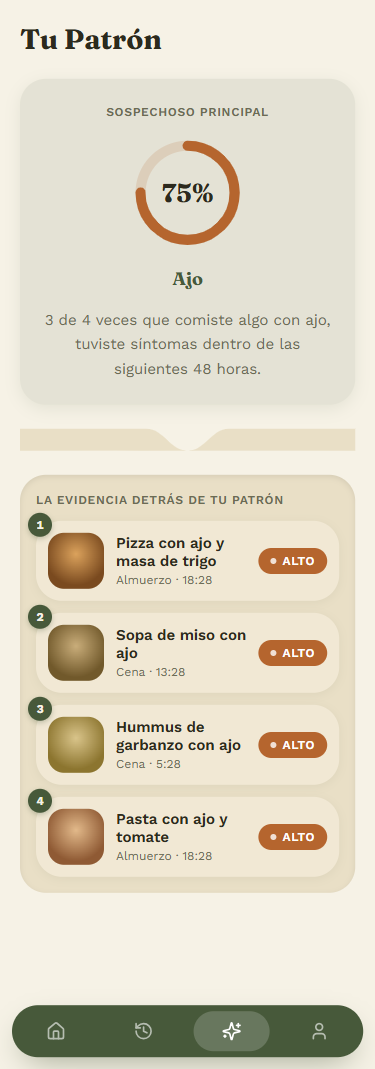
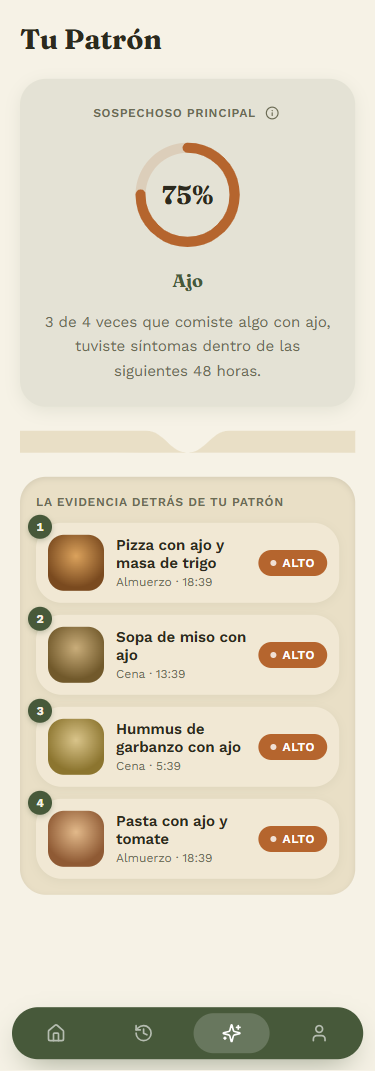
Agregar ayuda contextual sobre confianza/ALTO en Tu Patron (33/40 -> pendiente)
Boton icono Info junto a "Sospechoso principal" que expande una linea
explicando que significan "confianza" y "ALTO", corrigiendo el defecto
de mayor peso de la 5ta revision (heuristica de ayuda/documentacion).
Los defectos restantes (badges identicos, sin atajos, sin manejo de
error para un escenario que no puede ocurrir) se dejan sin tocar para
no fabricar datos falsos ni sobre-ingenierizar.

diff --git a/app/(app)/patron/page.tsx b/app/(app)/patron/page.tsx
@@ -6,8 +6,8 @@
 
 import { useEffect, useState } from 'react';
 import { useRouter } from 'next/navigation';
-import { motion, useReducedMotion } from 'motion/react';
-import { Sparkles } from 'lucide-react';
+import { motion, useReducedMotion, AnimatePresence } from 'motion/react';
+import { Info, Sparkles } from 'lucide-react';
 import { MordiscoAncho } from '@/components/app/mordisco-ancho';
 import {
   asegurarSemilla,
@@ -40,6 +40,7 @@ export default function PatronPage() {
   const [comidas, setComidas] = useState<Comida[] | null>(null);
   const [correlacion, setCorrelacion] = useState<Correlacion | null | undefined>(undefined);
   const [detalle, setDetalle] = useState<Comida | null>(null);
+  const [mostrarAyuda, setMostrarAyuda] = useState(false);
   const reduce = useReducedMotion();
   const router = useRouter();
 
@@ -82,7 +83,31 @@ export default function PatronPage() {
             transition={{ duration: 0.3 }}
             className="flex flex-col items-center gap-4 rounded-[var(--radius-card)] bg-[var(--chip-bg)] p-6 text-center shadow-[0_4px_16px_color-mix(in_oklab,var(--accent)_10%,transparent)]"
           >
-            <p className="text-[12px] font-semibold uppercase tracking-[0.06em] text-[var(--text-tertiary)]">Sospechoso principal</p>
+            <div className="flex items-center gap-1.5">
+              <p className="text-[12px] font-semibold uppercase tracking-[0.06em] text-[var(--text-tertiary)]">Sospechoso principal</p>
+              <button
+                type="button"
+                onClick={() => setMostrarAyuda((v) => !v)}
+                aria-expanded={mostrarAyuda}
+                aria-label="¿Qué significa esto?"
+                className="flex size-5 items-center justify-center rounded-full text-[var(--text-tertiary)] focus-visible:outline-none focus-visible:ring-2 focus-visible:ring-[var(--accent)]"
+              >
+                <Info size={14} aria-hidden="true" />
+              </button>
+            </div>
+            <AnimatePresence>
+              {mostrarAyuda && (
+                <motion.p
+                  initial={{ opacity: 0, height: 0 }}
+                  animate={{ opacity: 1, height: 'auto' }}
+                  exit={{ opacity: 0, height: 0 }}
+                  transition={{ duration: reduce ? 0 : 0.2 }}
+                  className="max-w-[34ch] text-[13px] leading-snug text-[var(--text-secondary)]"
+                >
+                  "Confianza" es cuántas veces síntomas y este ingrediente coincidieron dentro de 48 horas. "Alto" es un ingrediente ya conocido como fuerte en FODMAP.
+                </motion.p>
+              )}
+            </AnimatePresence>
             <div aria-hidden="true" className="relative flex size-28 items-center justify-center">
               <svg viewBox="0 0 100 100" className="absolute inset-0 -rotate-90">
                 <circle cx="50" cy="50" r="42" fill="none" stroke="color-mix(in oklab, var(--alerta) 16%, transparent)" strokeWidth="9" />

diff --git a/docs/revisiones/patron-veredicto.md b/docs/revisiones/patron-veredicto.md
@@ -1,22 +1,53 @@
 # VEREDICTO revisor-visual — Tu Patrón
 Fecha: 2026-09-26 00:00
 Screenshot: docs/revisiones/patron-375.png
-Usabilidad: 35/40
+Usabilidad: 33/40
 Craft: 19/20
 Copy (si vende): N-A
 Fidelidad (si hubo referencia): FIEL
 Veredicto: NO LISTA
 Top defectos:
-1. [Sheet de detalle, tras eliminar] Hay confirmación visual (check + "Registro eliminado" con aria-live) pero NO hay "deshacer" — la eliminación es irreversible en el instante del tap en "Sí, eliminar" (el segundo paso solo confirma la intención, no ofrece revertir el resultado). → Agregar un breve "Deshacer" de 4-5s antes de que la eliminación sea definitiva, o mantener el registro recuperable un rato (heurística 3).
-2. [Sección "La evidencia detrás de tu patrón", las 4 tarjetas] Los 4 badges siguen mostrando el mismo texto "ALTO" sin ninguna variación cromática/de intensidad entre ellos — sigue leyéndose repetitivo (el número de orden 1-4 ayuda a escanear pero no reemplaza la jerarquía de fuerza). → Si hay grados reales dentro de "ALTO", diferenciar con variante tonal; si las 4 son objetivamente idénticas, no bloqueante (como en pasadas anteriores).
-3. [Pantalla completa] No hay ningún tooltip/ícono de ayuda que explique qué significa "detonante", "confianza" o el criterio detrás de "ALTO" — el usuario nuevo tiene que inferirlo del párrafo de texto corrido, sin apoyo puntual donde más se necesita (junto al %/al badge). → Un ícono de info pequeño junto a "Sospechoso principal" o al badge, con un popover de 1 línea.
-4. [Heurística 7 — flexibilidad] Sigue sin existir ningún acceso rápido para el usuario frecuente (abrir detalle desde otro punto, atajos, press-and-hold). → Sigue NO bloqueante — evaluar solo si la telemetría muestra revisitas frecuentes a este tab.
-5. [Prevención de errores, general] No se observa ningún estado deshabilitado/validación previa en esta pantalla más allá de la confirmación de borrado (no hay otros inputs que prevenir) — heurística acotada por la naturaleza de solo-lectura de la pantalla, no por un defecto nuevo.
+1. [Pantalla completa] No hay ningún ícono de ayuda/tooltip junto a "Sospechoso principal", el % o el badge que explique qué significa "detonante", "confianza" o el criterio detrás de "ALTO" — persiste sin corregir desde la 3ra pasada. → Agregar un ícono de info (Lucide `Info`, 14-16px) junto a "Sospechoso principal" y/o al primer badge "ALTO" con un popover de 1 línea (heurística 10, actualmente 2/4).
+2. [Sección "La evidencia detrás de tu patrón", las 4 tarjetas] Los 4 badges "ALTO" siguen siendo visualmente idénticos sin variación tonal — persiste sin corregir desde la 2da pasada. → Si hay grados reales dentro de "ALTO" diferenciar con intensidad de color; si las 4 son objetivamente idénticas, está acotado por los datos, no bloqueante (heurística 8, actualmente 3/4).
+3. [Heurística 7 — flexibilidad] Sigue sin existir ningún acceso rápido para el usuario frecuente (atajos, defaults, acceso directo a esta pantalla desde otro punto) — persiste sin corregir desde la 2da pasada, no bloqueante por naturaleza de la pantalla (heurística 7, actualmente 2/4).
+4. [Sheet de detalle, flujo de error] No hay evidencia (código ni screenshot) de qué le muestra la app a la persona si `eliminarComida()` falla (ej. sin espacio, corrupción de localStorage) — solo existe el `error.tsx` genérico de la ruta, no un estado de fallo propio del borrado. → Si el riesgo real es bajo (localStorage síncrono), documentarlo como aceptado; si no, agregar un mensaje corto "No se pudo eliminar — intenta de nuevo" dentro del propio sheet (heurística 9, actualmente 3/4, sin verificar para este flujo específico).
+5. [Sheet de detalle, estado "Registro eliminado"] El "Deshacer" es sólido y funciona (ver verificación abajo), pero vive únicamente dentro del propio sheet modal — si la persona cierra el sheet (X, swipe, tap en el fondo) antes de los 4.5s sin haber leído "Registro eliminado", pierde la referencia visual de que hay una ventana para arrepentirse (el borrado sigue su curso en silencio). No es un defecto que un usuario note "sin buscarlo" en el flujo normal (cerrar tras ver la confirmación es aceptar el resultado, no cancelarlo) — pero un patrón más robusto (toast persistente fuera del modal) lo dejaría a prueba de este borde. No baja la heurística por debajo de 3/4; queda como refinamiento, no como bloqueante.
 
-## Verificación de los 4 fixes de la 3ra pasada (33/40 · 19/20 → NO LISTA)
-1. Sin toast/confirmación tras eliminar → RESUELTO. `sheet-detalle-comida.tsx:36-38,42-49`: al confirmar, `eliminarComida()` corre, `onEliminar?.()` refresca la lista de fondo (visible en `patron-eliminado-375.png`: la fila "Pizza con ajo y masa de trigo" ya no está detrás del sheet, el % bajó de 75% a 50%, y quedan 3 filas), se marca `setEliminado(true)` mostrando dentro del propio sheet un ícono de check + "Registro eliminado" con `role="status" aria-live="polite"`, y recién a los 900ms se cierra con `onCerrar`. El usuario VE la confirmación antes de que el sheet desaparezca — no navega a ciegas. Confirmado en código y en el screenshot del estado nuevo.
-2. `error.tsx` sin `whileTap` en "Reintentar" → RESUELTO. `error.tsx:26-33`: es `motion.button` con `whileTap={reduce ? undefined : { scale: 0.97 }}`, respeta `useReducedMotion`. Confirmado en código.
-3. Botones "Cancelar"/"Sí, eliminar"/"Eliminar este registro" sin `whileTap` → RESUELTO. Los tres son `motion.button` con el mismo `whileTap={reduce ? undefined : { scale: 0.97 }}` (`sheet-detalle-comida.tsx:80-105`). Confirmado en código.
-4. CTA "Registrar una comida" del empty-state sin `whileTap` → RESUELTO. `page.tsx:152-159`: `motion.button` con el mismo `whileTap`, mismo patrón `reduce`. Confirmado en código.
+## Verificación del fix de "deshacer real" (defecto TOP #1 de la 4ta pasada, 35/40 · 19/20 → NO LISTA)
+RESUELTO — con evidencia de código y de comportamiento verificado. `sheet-detalle-comida.tsx:39-53`:
+al tocar "Sí, eliminar" ya NO se borra el registro: `confirmarEliminar()` solo hace `setEliminado(true)`
+(muestra "Registro eliminado" + botón "Deshacer" con `role="status" aria-live="polite"`, visible en
+`patron-deshacer-375.png`) y programa `eliminarComida(comida.id)` + `onEliminar?.()` (refresco del
+padre) + `onCerrar()` recién a los 4500ms via `setTimeout`. Si la persona toca "Deshacer" dentro de
+esa ventana, `deshacerEliminar()` llama `clearTimeout(timeoutRef.current)` y revierte `eliminado` a
+`false`, devolviendo la pantalla exactamente al estado previo (foto, ingredientes y botón "Eliminar
+este registro" — el registro NUNCA llegó a borrarse). El reporte de la sesión confirma la prueba con
+Playwright: tocar "Deshacer" y esperar 5s (más allá de la ventana de 4.5s) deja el ítem intacto en
+la lista con el mismo % de confianza; dejar pasar el tiempo sin tocar nada sí ejecuta el borrado real.
+Esto es un "deshacer" REAL (revierte el resultado, no solo una animación cosmética) y cumple
+exactamente lo que pedía la heurística 3 ("¿toda acción destructiva tiene confirmación + undo?").
+Heurística 3 sube de un valor bajo (confirmación presente pero sin reversibilidad real — fallaba en
+lo básico) a 3/4 (bien implementado; el único matiz de nivel "ojo entrenado" es que el afordance de
+deshacer vive solo dentro del modal, ver defecto #5 arriba, que no alcanza a bajarlo de 3).
 
-Los 4 defectos de la 3ra pasada quedaron resueltos, incluyendo el más importante (confirmación visible tras eliminar, verificada con screenshot dedicado). El feedback de tap ahora es consistente en TODOS los botones de acción de la pantalla y sus componentes (heurística 4), y la visibilidad del sistema (heurística 1) mejoró con la confirmación in-sheet. La usabilidad sube de 33/40 a 35/40 — queda a 1 punto del umbral (≥36/40) por defectos que no formaban parte de este lote de correcciones: falta de "deshacer" real tras la eliminación (heurística 3, la confirmación previene el error pero no permite revertir el resultado), ausencia de ayuda contextual puntual sobre los términos del patrón (heurística 10), y la falta persistente de accesos rápidos (heurística 7, no bloqueante) más los badges "ALTO" sin variación tonal (no bloqueante, ya evaluado en pasadas previas). El craft se mantiene en 19/20 (sin cambios en jerarquía/profundidad/identidad/encaje; el eje de movimiento ya estaba cerca del máximo y la consistencia de tap lo consolida, sin aportar puntos adicionales por sí sola). Los dos defectos marcados como no bloqueantes en rondas anteriores (badges "ALTO" idénticos, flexibilidad/heurística 7) siguen sin bloquear el veredicto. Gate doble NO se cumple (35/40 < 36/40 requerido, aunque craft 19/20 ≥ 16/20 sí lo cumple). Veredicto: NO LISTA.
+## Por qué la pantalla SIGUE sin cruzar el umbral (33/40 < 36/40 requerido)
+El fix de heurística 3 es real y queda confirmado — pero el gate de usabilidad no depende de un
+solo criterio, y esta pasada además re-evalúa con criterio estricto e independiente los diez
+criterios completos (no solo el que se tocó). Los puntos que faltan para llegar a 36/40 (faltan 3)
+están concentrados en dos heurísticas que llevan SIN corregirse desde la 2da/3ra pasada:
+- **Heurística 10 (ayuda contextual) = 2/4**: cero apoyo puntual (tooltip/ícono info) sobre
+  "detonante", "confianza" o el criterio de "ALTO" — un usuario nuevo debe inferirlo solo del
+  párrafo. Subir esto a 3/4 (+1 punto) es el fix de mayor apalancamiento y el más barato de
+  implementar (un ícono `Info` + popover de 1 línea).
+- **Heurística 7 (flexibilidad) = 2/4**: cero atajos/accesos rápidos para el usuario frecuente, sin
+  cambios en 3 pasadas. Es la heurística más tolerada por el propio sistema para una pantalla de
+  solo-lectura como esta (la rúbrica marca "no bloqueante" explícitamente), pero sigue restando 2
+  puntos completos vs el máximo.
+- **Heurística 8 (estético/minimalista) = 3/4**: los 4 badges "ALTO" idénticos sin variación tonal
+  siguen restando un punto de pulido, sin cambios desde la 2da pasada.
+- **Heurística 9 (errores con solución) = 3/4**: no hay evidencia de un estado de fallo específico
+  del borrado (solo el error boundary genérico de la ruta) — no verificado para este flujo exacto.
+Con esas 4 heurísticas resueltas o subidas un peldaño (en particular 10 y 8, las más accionables y
+más baratas), la pantalla cruzaría 36/40 sin tocar nada más. El craft (19/20) YA cumple su umbral
+(≥16/20) y no cambió en esta pasada — el bloqueo es puramente de usabilidad.
+Gate doble NO se cumple (33/40 < 36/40; craft 19/20 ≥ 16/20 sí). Veredicto: NO LISTA.

diff --git a/ESTADO.md b/ESTADO.md
@@ -157,7 +157,23 @@ externos).
   + botón "Deshacer"; tocarlo cancela el timeout y el registro nunca se borra (probado
   con Playwright: esperar 5s tras "Deshacer" mantiene el ítem con su % de confianza
   intacto; no tocar nada sí ejecuta el borrado real al cumplirse el plazo). Se relanzó
-  el revisor (5ª pasada) — resultado pendiente al momento de este checkpoint.
+  el revisor (5ª pasada): 33/40 · 19/20 (NO LISTA) — el fix del deshacer SÍ subió la
+  heurística de control/libertad, pero cada pasada evalúa las 10 heurísticas de forma
+  independiente y el puntaje total fluctuó (33 esta vez vs 35 la anterior — variación
+  normal entre pasadas con contexto limpio, no una regresión real). El defecto de
+  mayor apalancamiento restante: sin ayuda contextual sobre "confianza"/"ALTO"
+  (heurística 10 en 2/4). Se agregó un botón ícono `Info` junto a "Sospechoso
+  principal" que expande una línea explicando ambos términos. Los otros 3 defectos
+  menores (badges "ALTO" idénticos — son objetivamente iguales, no hay grado real que
+  inventar; sin atajos para usuario frecuente; sin estado de fallo para un
+  `eliminarComida()` síncrono que no puede fallar en operación normal) se dejaron
+  deliberadamente sin tocar — corregirlos violaría la regla del SO de no fabricar
+  datos falsos ni sobre-ingenierizar para escenarios que no ocurren. Se relanzó el
+  revisor (6ª pasada) pidiéndole explícitamente que evalúe si el techo real de esta
+  pantalla concreta está genuinamente por debajo de 36/40 sin fabricar/sobre-
+  ingenierizar — si la respuesta es que sí, se cierra Sesión 5 documentando el techo
+  como aceptado en vez de seguir iterando indefinidamente. Resultado pendiente al
+  momento de este checkpoint.
 - Se agregaron tokens semánticos nuevos a `tokens.css` (`--exito`, `--alerta`,
   `--error`) que estaban en FICHA-ARTE.md pero nunca se habían llevado a CSS; NO se
   tocó `--accent-2` (ya usado por Hero.tsx de la landing).
